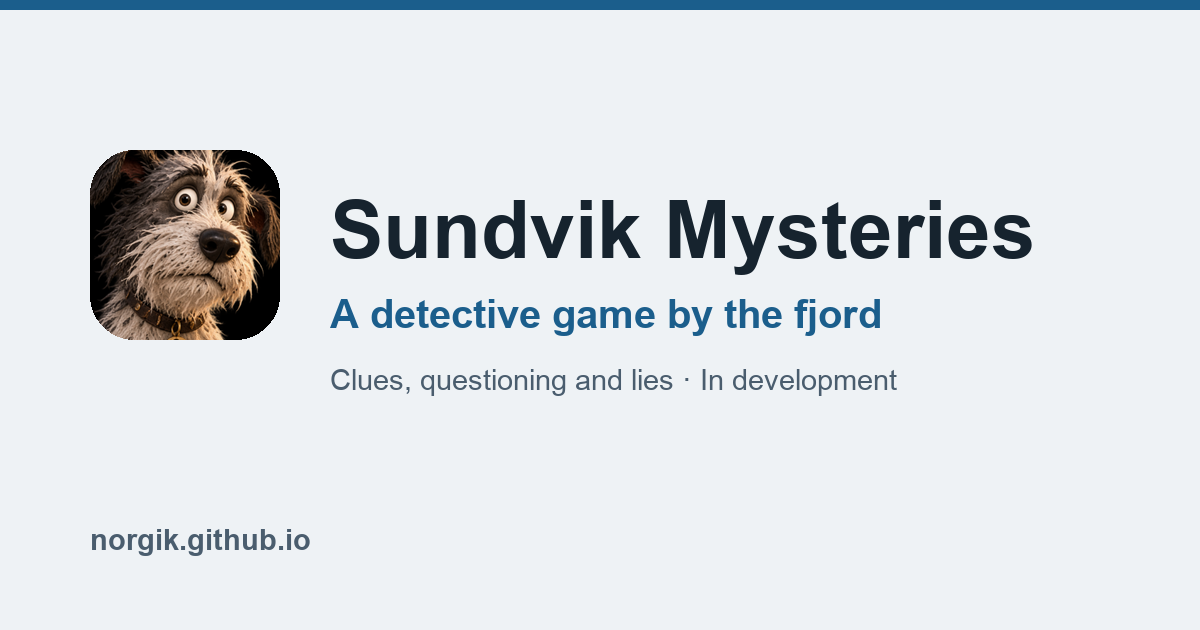
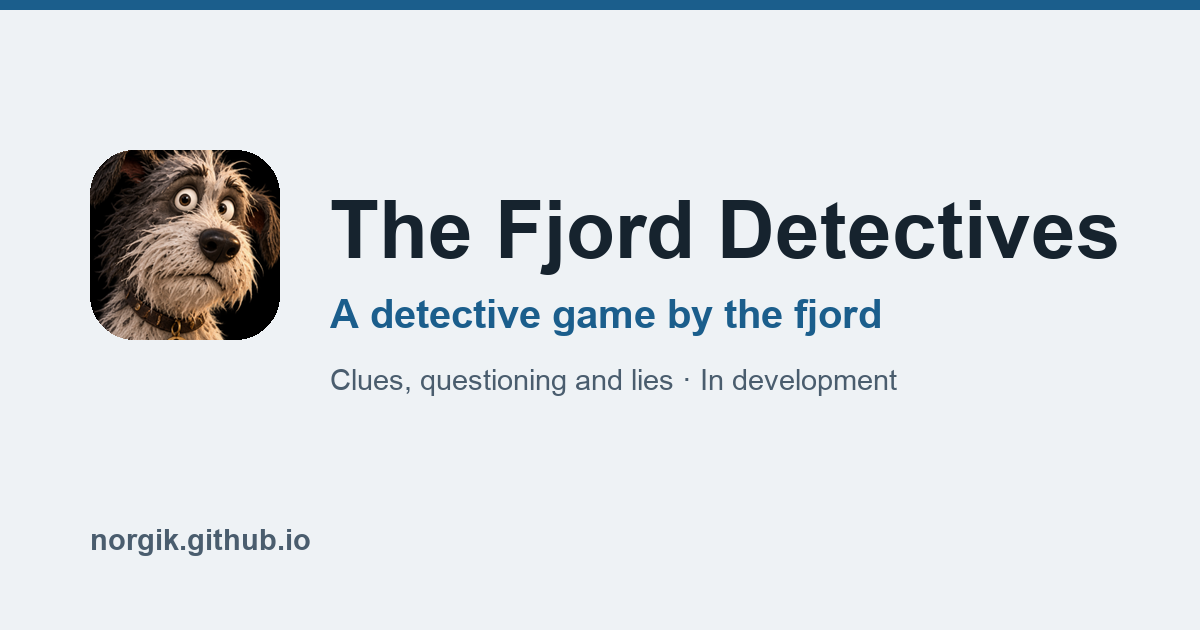
Rename the game page to Fjorddetektivene and show real screens
- The game has its final name: Fjorddetektivene on the Norwegian page and
  the front page, The Fjord Detectives on the English page. The "working
  title" remark is gone; Sundvik stays as the town in the story.
- The seven pictures of locations are replaced with six screenshots from
  the game in each language: home screen, questioning, a scene with its
  glints, a clue, the notebook and the empty theory board — nothing that
  gives a case away.
- Link preview cards redrawn with the new names.

Verified on a local server: both pages show their own language's
screens, front page lists Fjorddetektivene, no sideways scroll.

Changed region(s): [[0.2775, 0.3016, 0.925, 0.4524]]

diff --git a/sundvik/en/index.html b/sundvik/en/index.html
@@ -7,13 +7,13 @@
 <link rel="preconnect" href="https://fonts.gstatic.com" crossorigin>
 <link rel="stylesheet" href="https://fonts.googleapis.com/css2?family=Archivo:wght@500;600;700&family=Literata:opsz,wght@7..72,400;7..72,600&display=swap">
 <link rel="stylesheet" href="../../style.css">
-<title>Sundvik Mysteries — a detective game by the fjord</title>
-<meta name="description" content="Sundvik Mysteries is a comic detective game for iPhone set in a small Norwegian fjord town. Search the scenes, question witnesses, catch the lies and piece the solution together yourself.">
+<title>The Fjord Detectives — a detective game by the fjord</title>
+<meta name="description" content="The Fjord Detectives is a comic detective game for iPhone set in a small Norwegian fjord town. Search the scenes, question witnesses, catch the lies and piece the solution together yourself.">
 <link rel="alternate" hreflang="nb" href="https://norgik.github.io/sundvik/">
 <link rel="alternate" hreflang="en" href="https://norgik.github.io/sundvik/en/">
 <meta property="og:type" content="website">
 <meta property="og:site_name" content="Konstantin Krane">
-<meta property="og:title" content="Sundvik Mysteries — a detective game by the fjord">
+<meta property="og:title" content="The Fjord Detectives — a detective game by the fjord">
 <meta property="og:description" content="A grumpy detective, his eager young partner and Turbo the dog solve cases in a small fjord town. Search, question, catch the lies and prove who did it. In development.">
 <meta property="og:url" content="https://norgik.github.io/sundvik/en/">
 <meta property="og:image" content="https://norgik.github.io/assets/og/sundvik-en.png">
@@ -24,23 +24,22 @@
   <header>
     <img class="pageicon" src="../../assets/icons/sundvik.png" alt="" width="80" height="80">
     <p class="brandmark">iPhone · In development</p>
-    <h1>Sundvik Mysteries</h1>
+    <h1>The Fjord Detectives</h1>
     <p class="meta"><span>Comic detective game</span><span>Landscape</span><span>English, Norwegian, German and Russian</span></p>
   </header>
 
   <div class="summary">
     <p class="lead">Nothing in Sundvik is quite what it seems.</p>
-    <p>A comic detective game set in a small, made-up Norwegian fjord town. You search the scenes, question the witnesses, catch them lying and put the solution together yourself — nobody does it for you.</p>
+    <p>A comic detective game set in Sundvik, a small, made-up Norwegian fjord town. You search the scenes, question the witnesses, catch them lying and put the solution together yourself — nobody does it for you.</p>
   </div>
 
   <div class="shots wide">
-    <img src="../../assets/sundvik/01.jpg" alt="Title screen: Bjørn, Leif and Turbo on the quay" width="1200" height="553" loading="lazy">
-    <img src="../../assets/sundvik/02.jpg" alt="The ferry pier in the evening" width="1200" height="800" loading="lazy">
-    <img src="../../assets/sundvik/03.jpg" alt="Café Bølge after closing time" width="1200" height="800" loading="lazy">
-    <img src="../../assets/sundvik/04.jpg" alt="The lobby of Hotel Fjordlys" width="1200" height="800" loading="lazy">
-    <img src="../../assets/sundvik/05.jpg" alt="Room No. 7" width="1200" height="800" loading="lazy">
-    <img src="../../assets/sundvik/06.jpg" alt="The freezer room at the cold store" width="1200" height="800" loading="lazy">
-    <img src="../../assets/sundvik/07.jpg" alt="The harbour at night" width="1200" height="800" loading="lazy">
+    <img src="../../assets/sundvik/en/01.jpg" alt="Home screen: Bjørn, Leif and Turbo on the quay" width="1200" height="552" loading="lazy">
+    <img src="../../assets/sundvik/en/02.jpg" alt="Questioning on the quay: Marit Haug, the ticket collector" width="1200" height="552" loading="lazy">
+    <img src="../../assets/sundvik/en/03.jpg" alt="Café Bølge — where something glints, a clue is hidden" width="1200" height="552" loading="lazy">
+    <img src="../../assets/sundvik/en/04.jpg" alt="A clue: the camera facing the car park" width="1200" height="552" loading="lazy">
+    <img src="../../assets/sundvik/en/05.jpg" alt="The notebook: witness statements, word for word" width="1200" height="552" loading="lazy">
+    <img src="../../assets/sundvik/en/06.jpg" alt="The theory: who, what, how and why" width="1200" height="552" loading="lazy">
   </div>
 
   <section>
@@ -76,7 +75,7 @@
 
   <section>
     <h2>Status</h2>
-    <p>The first three cases are playable from start to finish on iPhone, with illustrated scenes and voice acting in four languages. The game is not yet in the App Store, and the name is a working title. I do the stories, game design, voices and programming.</p>
+    <p>The first three cases are playable from start to finish on iPhone, with illustrated scenes and voice acting in four languages. The game is not yet in the App Store. I do the stories, game design, voices and programming.</p>
     <p class="note">Technical: Swift, SwiftUI, cases described as data and automatic checking of every solution. Pictures and graphics are made with AI tools.</p>
   </section>
 

diff --git a/sundvik/index.html b/sundvik/index.html
@@ -7,13 +7,13 @@
 <link rel="preconnect" href="https://fonts.gstatic.com" crossorigin>
 <link rel="stylesheet" href="https://fonts.googleapis.com/css2?family=Archivo:wght@500;600;700&family=Literata:opsz,wght@7..72,400;7..72,600&display=swap">
 <link rel="stylesheet" href="../style.css">
-<title>Sundvik Mysteries — detektivspill ved fjorden</title>
-<meta name="description" content="Sundvik Mysteries er et humoristisk detektivspill for iPhone fra en liten norsk fjordby. Du undersøker steder, avhører vitner, fanger løgner og setter sammen løsningen selv.">
+<title>Fjorddetektivene — detektivspill ved fjorden</title>
+<meta name="description" content="Fjorddetektivene er et humoristisk detektivspill for iPhone fra en liten norsk fjordby. Du undersøker steder, avhører vitner, fanger løgner og setter sammen løsningen selv.">
 <link rel="alternate" hreflang="nb" href="https://norgik.github.io/sundvik/">
 <link rel="alternate" hreflang="en" href="https://norgik.github.io/sundvik/en/">
 <meta property="og:type" content="website">
 <meta property="og:site_name" content="Konstantin Krane">
-<meta property="og:title" content="Sundvik Mysteries — detektivspill ved fjorden">
+<meta property="og:title" content="Fjorddetektivene — detektivspill ved fjorden">
 <meta property="og:description" content="En gretten detektiv, den ivrige makkeren hans og hunden Turbo løser saker i en liten fjordby. Undersøk, avhør, fang løgnene og bevis hvem som gjorde det. Under utvikling.">
 <meta property="og:url" content="https://norgik.github.io/sundvik/">
 <meta property="og:image" content="https://norgik.github.io/assets/og/sundvik.png">
@@ -24,23 +24,22 @@
   <header>
     <img class="pageicon" src="../assets/icons/sundvik.png" alt="" width="80" height="80">
     <p class="brandmark">iPhone · Under utvikling</p>
-    <h1>Sundvik Mysteries</h1>
+    <h1>Fjorddetektivene</h1>
     <p class="meta"><span>Detektivspill med humor</span><span>Liggende format</span><span>Norsk, engelsk, tysk og russisk</span></p>
   </header>
 
   <div class="summary">
     <p class="lead">Ingenting er som det ser ut i Sundvik.</p>
-    <p>Et humoristisk detektivspill fra en liten, oppdiktet fjordby. Du undersøker stedene, avhører vitnene, fanger dem i løgn og setter sammen løsningen selv — ingen gjør det for deg.</p>
+    <p>Et humoristisk detektivspill fra Sundvik, en liten, oppdiktet fjordby. Du undersøker stedene, avhører vitnene, fanger dem i løgn og setter sammen løsningen selv — ingen gjør det for deg.</p>
   </div>
 
   <div class="shots wide">
-    <img src="../assets/sundvik/01.jpg" alt="Tittelbildet: Bjørn, Leif og Turbo på kaia" width="1200" height="553" loading="lazy">
-    <img src="../assets/sundvik/02.jpg" alt="Ferjekaia om kvelden" width="1200" height="800" loading="lazy">
-    <img src="../assets/sundvik/03.jpg" alt="Café Bølge etter stengetid" width="1200" height="800" loading="lazy">
-    <img src="../assets/sundvik/04.jpg" alt="Lobbyen på Hotel Fjordlys" width="1200" height="800" loading="lazy">
-    <img src="../assets/sundvik/05.jpg" alt="Rom nr. 7" width="1200" height="800" loading="lazy">
-    <img src="../assets/sundvik/06.jpg" alt="Fryserommet på kjølelageret" width="1200" height="800" loading="lazy">
-    <img src="../assets/sundvik/07.jpg" alt="Havna om natta" width="1200" height="800" loading="lazy">
+    <img src="../assets/sundvik/nb/01.jpg" alt="Hovedskjermen: Bjørn, Leif og Turbo på kaia" width="1200" height="552" loading="lazy">
+    <img src="../assets/sundvik/nb/02.jpg" alt="Avhør på kaia: billettøren Marit Haug" width="1200" height="552" loading="lazy">
+    <img src="../assets/sundvik/nb/03.jpg" alt="Café Bølge — stedene der det glimter, skjuler spor" width="1200" height="552" loading="lazy">
+    <img src="../assets/sundvik/nb/04.jpg" alt="Et spor: kameraet mot parkeringen" width="1200" height="552" loading="lazy">
+    <img src="../assets/sundvik/nb/05.jpg" alt="Notatboka: vitnenes utsagn, ord for ord" width="1200" height="552" loading="lazy">
+    <img src="../assets/sundvik/nb/06.jpg" alt="Versjonen: hvem, hva, hvordan og hvorfor" width="1200" height="552" loading="lazy">
   </div>
 
   <section>
@@ -76,7 +75,7 @@
 
   <section>
     <h2>Status</h2>
-    <p>De tre første sakene kan spilles fra start til slutt på iPhone, med tegnet grafikk og stemmer på fire språk. Spillet er ennå ikke lagt ut i App Store, og navnet er et arbeidsnavn. Jeg står for historiene, spilldesignet, stemmene og programmeringen.</p>
+    <p>De tre første sakene kan spilles fra start til slutt på iPhone, med tegnet grafikk og stemmer på fire språk. Spillet er ennå ikke lagt ut i App Store. Jeg står for historiene, spilldesignet, stemmene og programmeringen.</p>
     <p class="note">Teknisk: Swift, SwiftUI, saker beskrevet som data og automatisk kontroll av løsningene. Bilder og grafikk er laget med AI-verktøy.</p>
   </section>
 

diff --git a/index.html b/index.html
@@ -8,7 +8,7 @@
 <link rel="stylesheet" href="https://fonts.googleapis.com/css2?family=Archivo:wght@500;600;700&family=Literata:opsz,wght@7..72,400;7..72,600&display=swap">
 <link rel="stylesheet" href="style.css">
 <title>Konstantin Krane — apper for iPhone og Android</title>
-<meta name="description" content="Apper laget av Konstantin Krane i Sykkylven: Bølge, Sykkylv1, NorskFlow, Lille Elg, Smart Chair Control og Sundvik Mysteries.">
+<meta name="description" content="Apper laget av Konstantin Krane i Sykkylven: Bølge, Sykkylv1, NorskFlow, Lille Elg, Smart Chair Control og Fjorddetektivene.">
 <meta property="og:type" content="website">
 <meta property="og:site_name" content="Konstantin Krane">
 <meta property="og:title" content="Konstantin Krane — apper for iPhone og Android">
@@ -76,9 +76,9 @@
       </span>
     </a>
     <a class="app" href="sundvik/">
-      <img src="assets/icons/sundvik.png" alt="Sundvik Mysteries" width="64" height="64">
+      <img src="assets/icons/sundvik.png" alt="Fjorddetektivene" width="64" height="64">
       <span class="appbody">
-        <span class="apptitle">Sundvik Mysteries</span>
+        <span class="apptitle">Fjorddetektivene</span>
         <span class="badge">Under utvikling</span>
         <p>Humoristisk detektivspill fra en liten fjordby. Undersøk stedene, avhør vitnene, fang løgnene og bevis selv hvem som gjorde det — med hunden Turbo på lag.</p>
       </span>

diff --git a/README.md b/README.md
@@ -9,7 +9,7 @@ Prosjektsider for appene mine, publisert med GitHub Pages: <https://norgik.githu
 | NorskFlow | Under utvikling | [/norskflow/](https://norgik.github.io/norskflow/) |
 | Lille Elg | Under utvikling | [/lille-elg/](https://norgik.github.io/lille-elg/) |
 | Smart Chair Control | Prototype | [/smart-chair/](https://norgik.github.io/smart-chair/) |
-| Sundvik Mysteries | Under utvikling | [/sundvik/](https://norgik.github.io/sundvik/), [/sundvik/en/](https://norgik.github.io/sundvik/en/) |
+| Fjorddetektivene | Under utvikling | [/sundvik/](https://norgik.github.io/sundvik/), [/sundvik/en/](https://norgik.github.io/sundvik/en/) |
 
 Personvern- og supportsidene ligger fortsatt i sine egne repoer
 (`sykkylv1-legal`, `atlas-radio-legal`), fordi lenkene til dem er registrert
